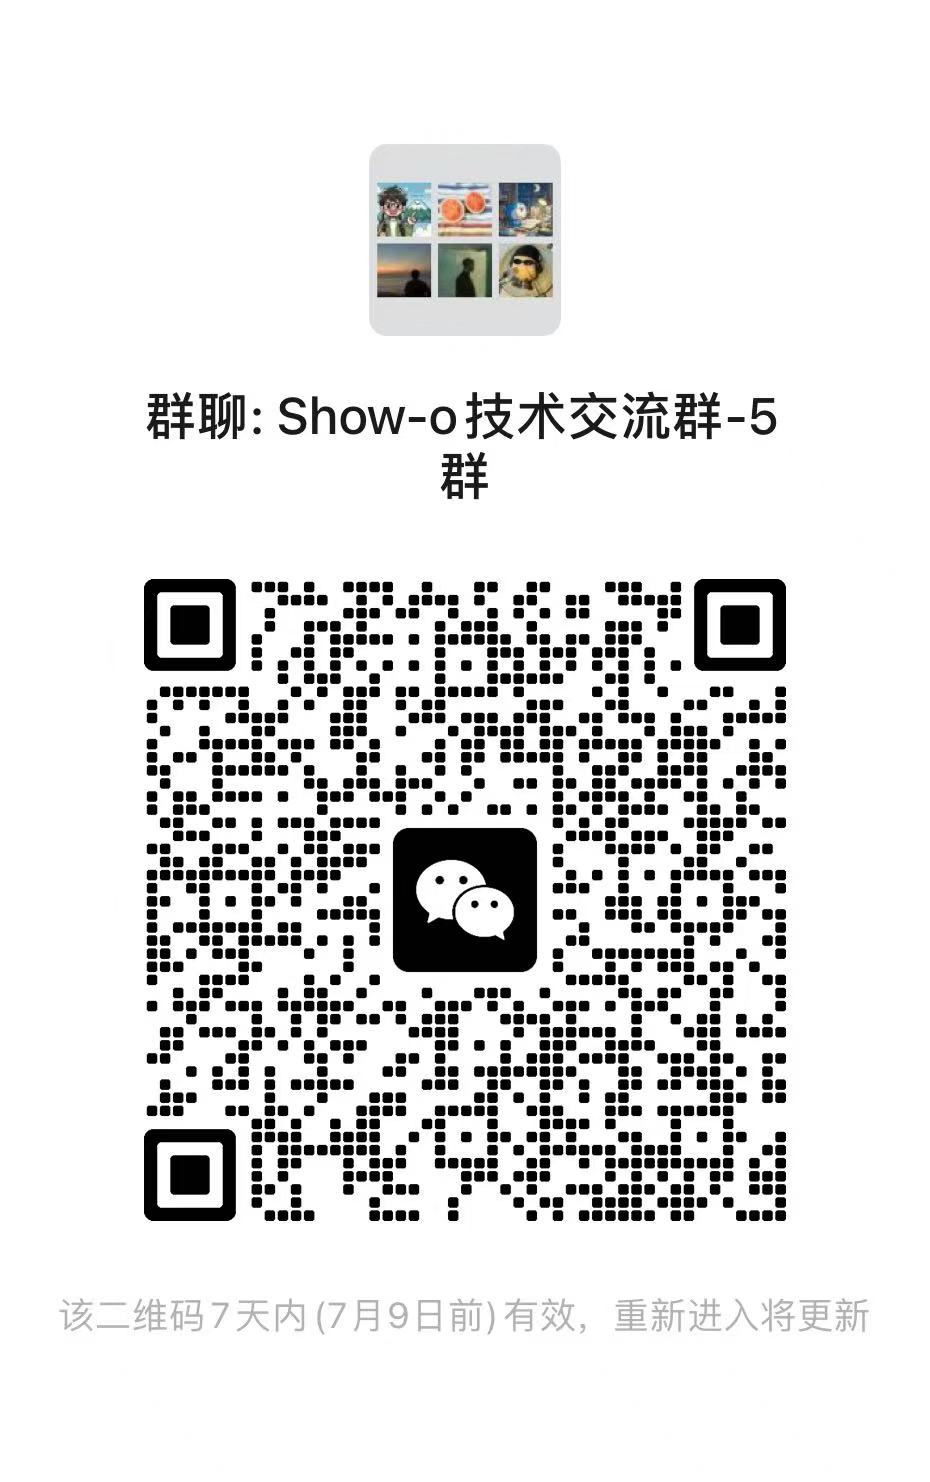
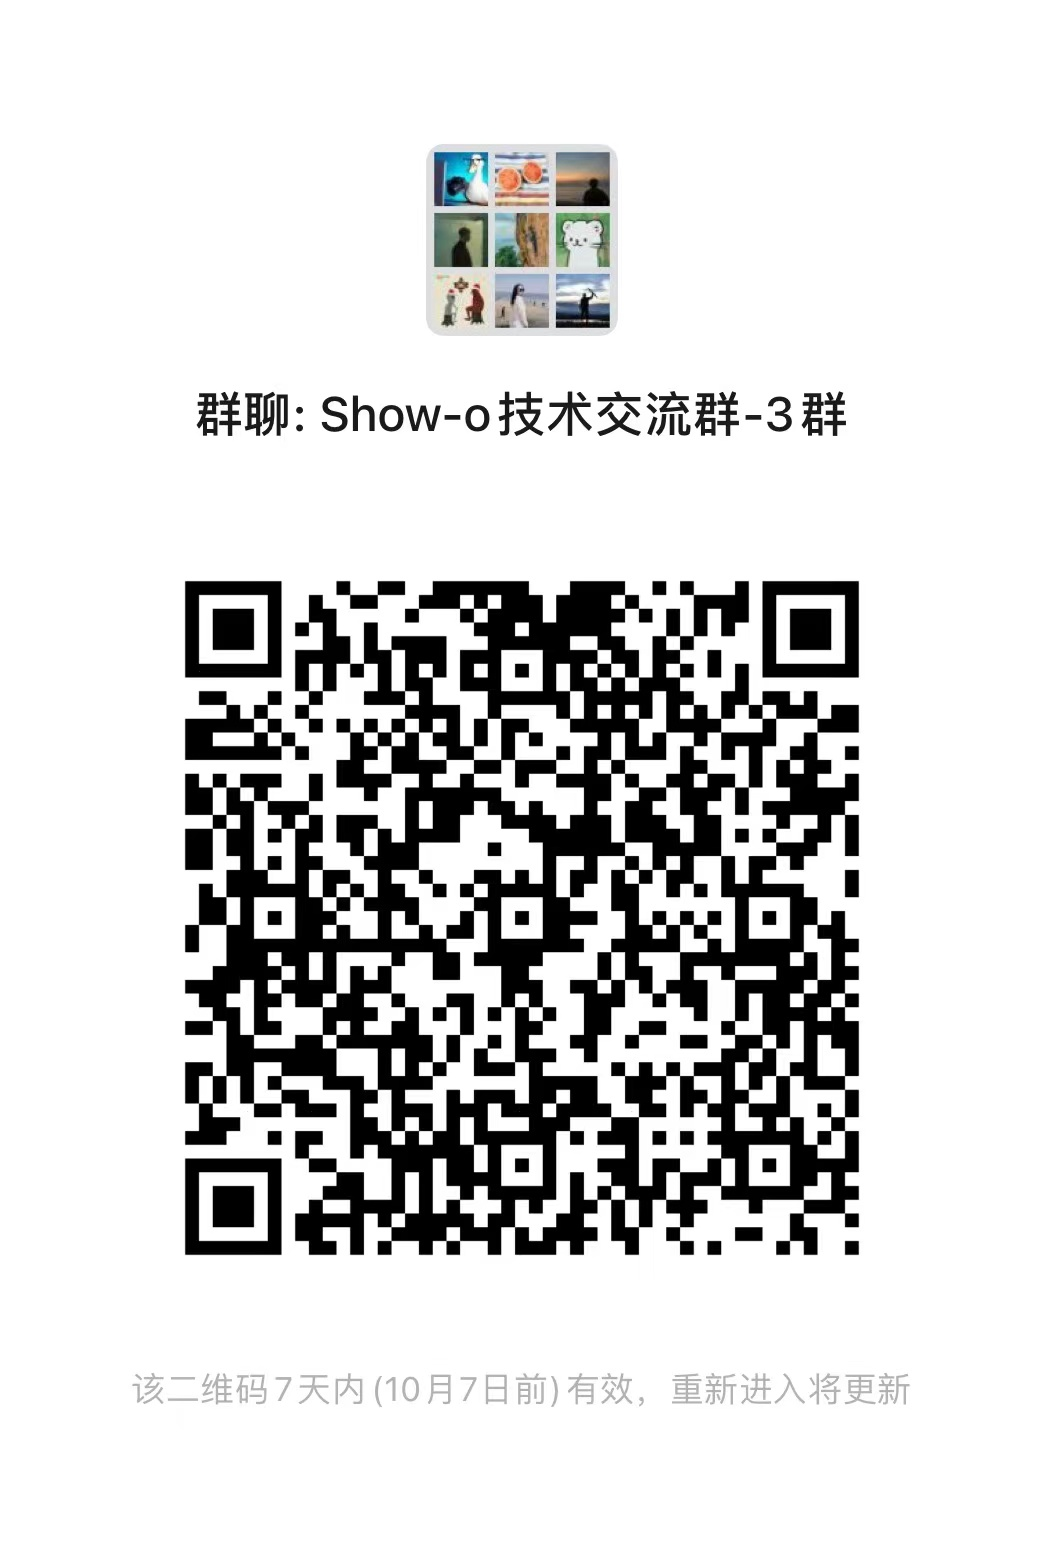
update wechat code

Changed region(s): [[0.1559, 0.3725, 0.8731, 0.8381], [0.1559, 0.0931, 0.8419, 0.3414], [0.0624, 0.8691, 0.9355, 0.9001]]

diff --git a/README.md b/README.md
@@ -17,7 +17,7 @@ Zhijie Chen<sup>2</sup>&nbsp;
 
 <sup>1</sup> [Show Lab](https://sites.google.com/view/showlab/home?authuser=0), National University of Singapore&nbsp; <sup>2</sup> Bytedance&nbsp;
  
-[![ArXiv](https://img.shields.io/badge/ArXiv-<2408.12528>-<COLOR>.svg)](https://arxiv.org/abs/2408.12528) [![Webpage](https://img.shields.io/badge/Webpage-Showo-<COLOR>.svg)](https://showlab.github.io/Show-o/) [![Demo](https://img.shields.io/badge/Demo-HuggingFace-<COLOR>.svg)](https://huggingface.co/spaces/showlab/Show-o) [![slack badge](https://img.shields.io/badge/Discord-join-blueviolet?logo=discord&amp)](https://discord.gg/p6k7XupM) [![WeChat badge](https://img.shields.io/badge/微信-加入-green?logo=wechat&amp)](https://github.com/showlab/Show-o/blob/main/docs/wechat_qr.jpg) [![Hits](https://hits.seeyoufarm.com/api/count/incr/badge.svg?url=https%3A%2F%2Fgithub.com%2Fshowlab%2FShow-o&count_bg=%234DC621&title_bg=%23811AD2&icon=&icon_color=%23E7E7E7&title=hits&edge_flat=false)](https://hits.seeyoufarm.com)
+[![ArXiv](https://img.shields.io/badge/ArXiv-<2408.12528>-<COLOR>.svg)](https://arxiv.org/abs/2408.12528) [![Webpage](https://img.shields.io/badge/Webpage-Showo-<COLOR>.svg)](https://showlab.github.io/Show-o/) [![Demo](https://img.shields.io/badge/Demo-HuggingFace-<COLOR>.svg)](https://huggingface.co/spaces/showlab/Show-o) [![slack badge](https://img.shields.io/badge/Discord-join-blueviolet?logo=discord&amp)](https://discord.gg/p6k7XupM) [![WeChat badge](https://img.shields.io/badge/微信-加入-green?logo=wechat&amp)](https://github.com/showlab/Show-o/blob/main/docs/wechat_qr_3.jpg) [![Hits](https://hits.seeyoufarm.com/api/count/incr/badge.svg?url=https%3A%2F%2Fgithub.com%2Fshowlab%2FShow-o&count_bg=%234DC621&title_bg=%23811AD2&icon=&icon_color=%23E7E7E7&title=hits&edge_flat=false)](https://hits.seeyoufarm.com)
 
 </div>
 
@@ -28,7 +28,7 @@ Zhijie Chen<sup>2</sup>&nbsp;
 * **[2024-09-01]** Add [FlexAttention implementation](https://github.com/showlab/Show-o/blob/main/training/omni_attention.py) for accleration. Thanks to [@Horace](https://github.com/Chillee) for providing examples.
 * **[2024-08-28]** We maintain a repo of [Awesome Unified Multimodal Models](https://github.com/showlab/Awesome-Unified-Multimodal-Models). If you are interested in unified models, star and watch it to get latest updates!
 * **[2024-08-27]** Add integration to Hugging Face! Thanks to @[NielsRogge](https://github.com/NielsRogge).
-* **[2024-08-26]** We build two community platforms to facilitate discussion, request and collaboration! Reach us with [Discord](https://discord.gg/p6k7XupM) and [WeChat](https://github.com/showlab/Show-o/blob/main/docs/wechat_qr.jpg)!
+* **[2024-08-26]** We build two community platforms to facilitate discussion, request and collaboration! Reach us with [Discord](https://discord.gg/p6k7XupM) and [WeChat](https://github.com/showlab/Show-o/blob/main/docs/wechat_qr_3.jpg)!
 * **[2024-08-23]** We release the inference code of Show-o (**1.3B**) for multimodal understanding and generation including image captioning, visual question answering (VQA), text-to-image generation, text-guided inpainting and extrapolation.
 
 ## What is the new about Show-o?
@@ -171,7 +171,7 @@ Find more at [Contributing and Roadmap](CONTRIBUTING_ROADMAP.md).
 Welcome to discuss with us and continuously improve the user experience of Show-o.
 Reach us with this [Discord channel](https://discord.gg/p6k7XupM) or the WeChat QR code below!
 <p align="center">
-<img src="docs/wechat_qr.jpg" width="256">
+<img src="docs/wechat_qr_3.jpg" width="256">
 </p>
 
 
